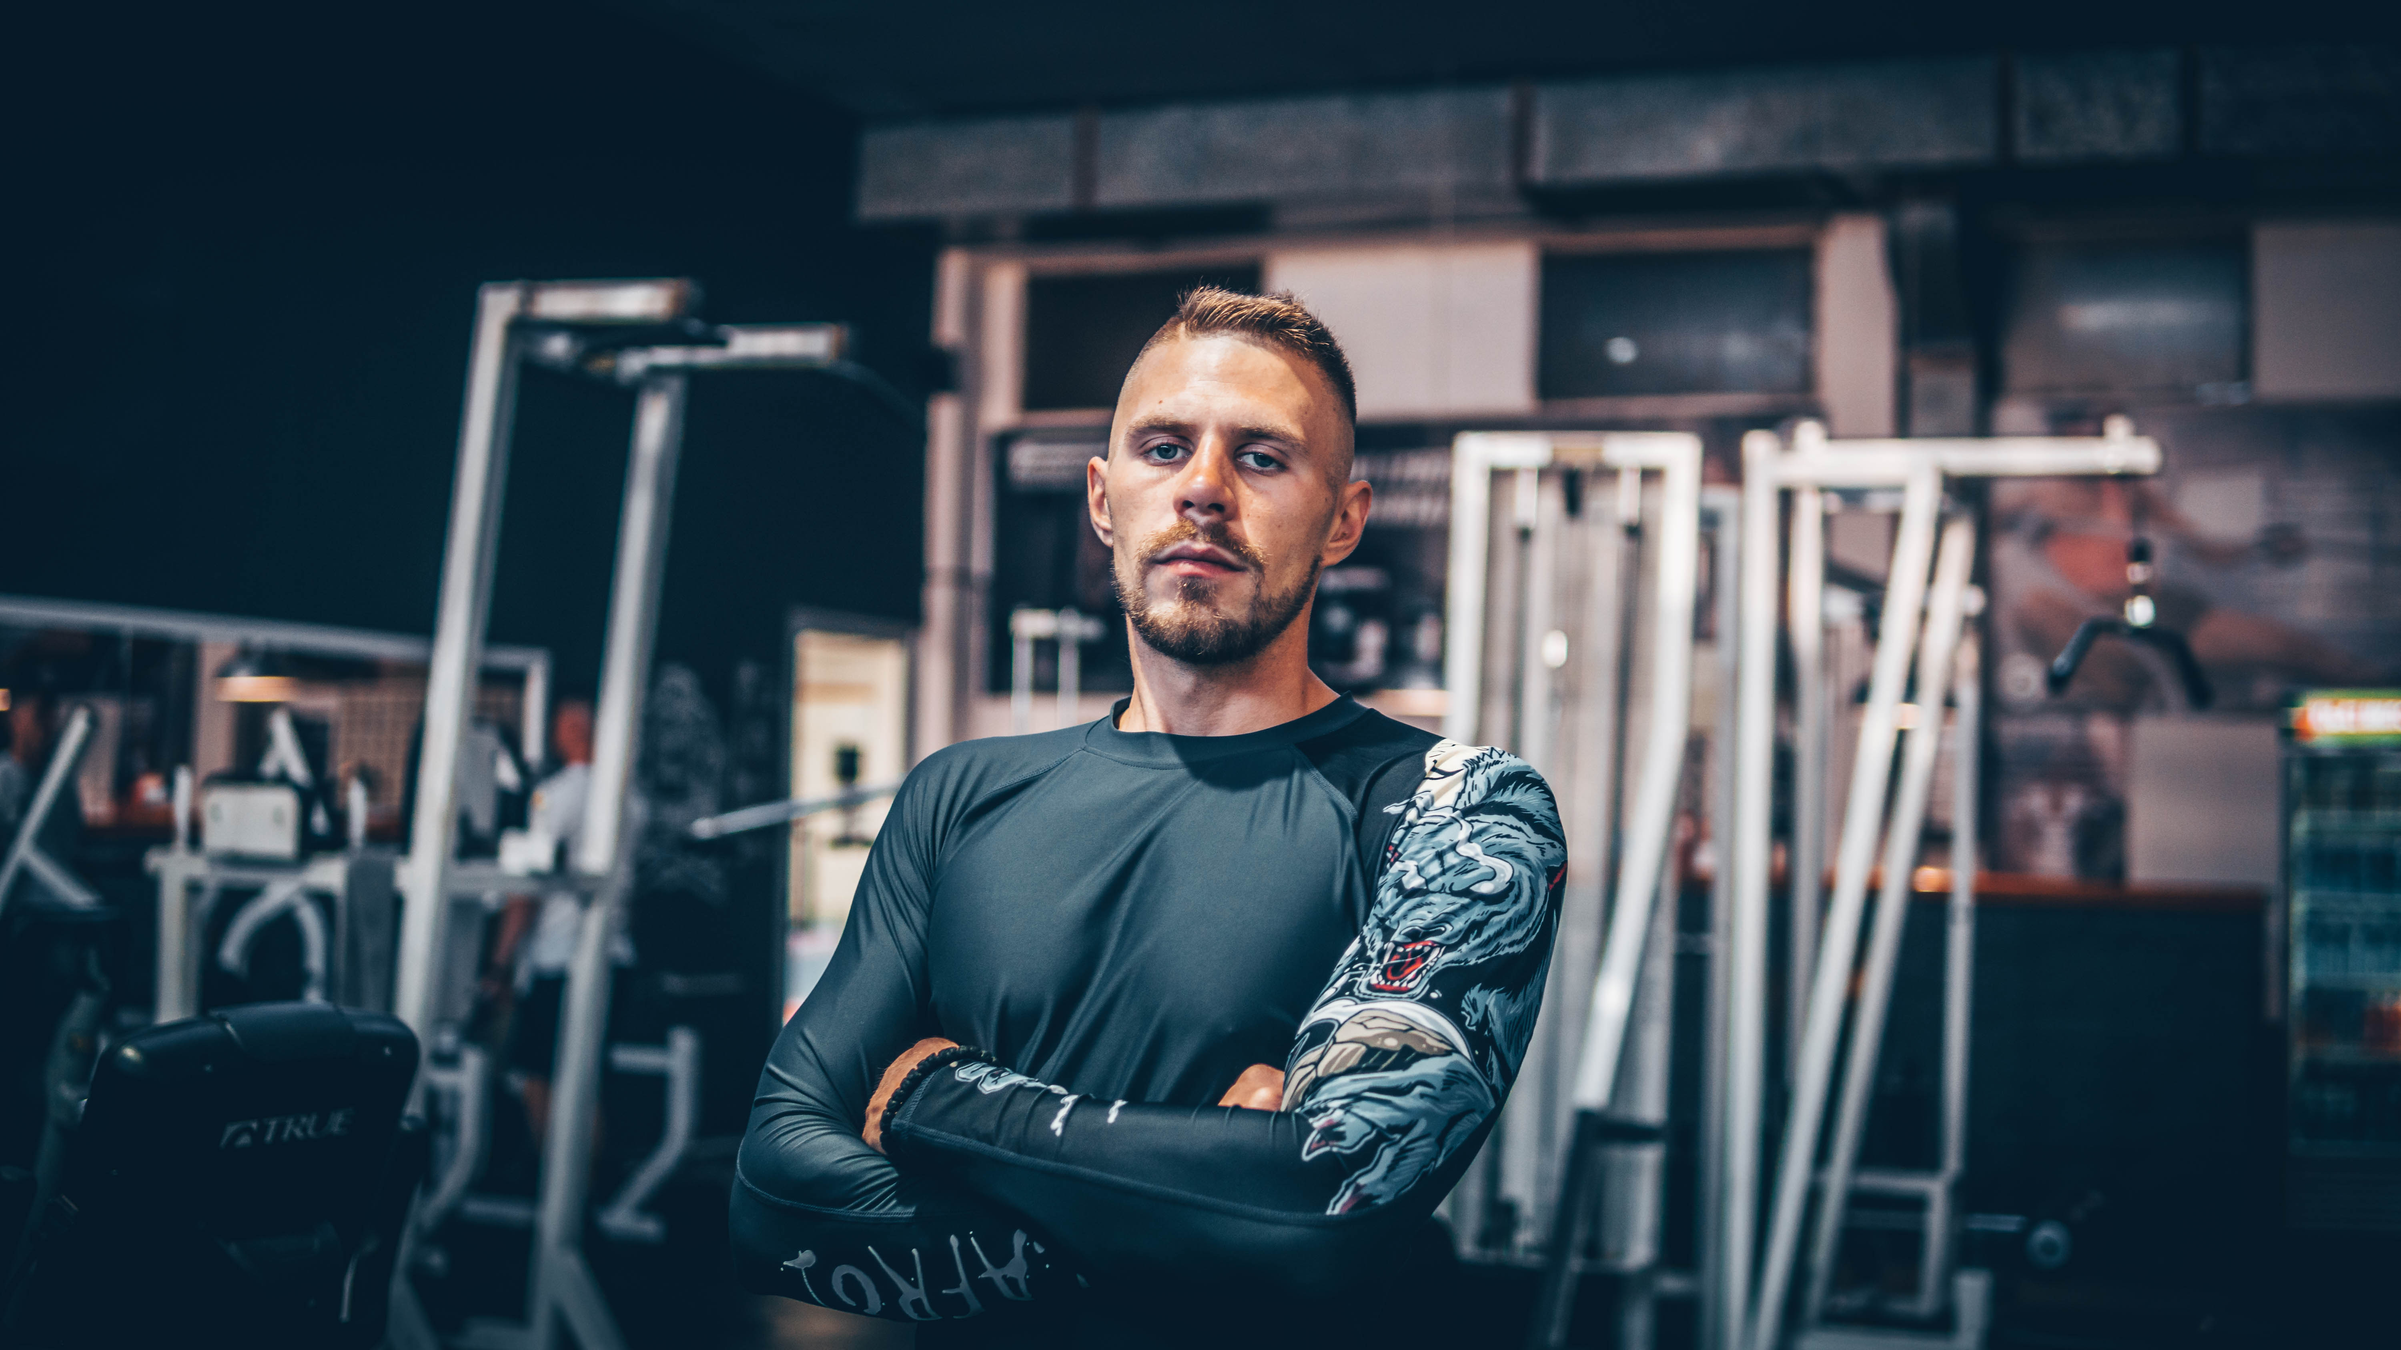
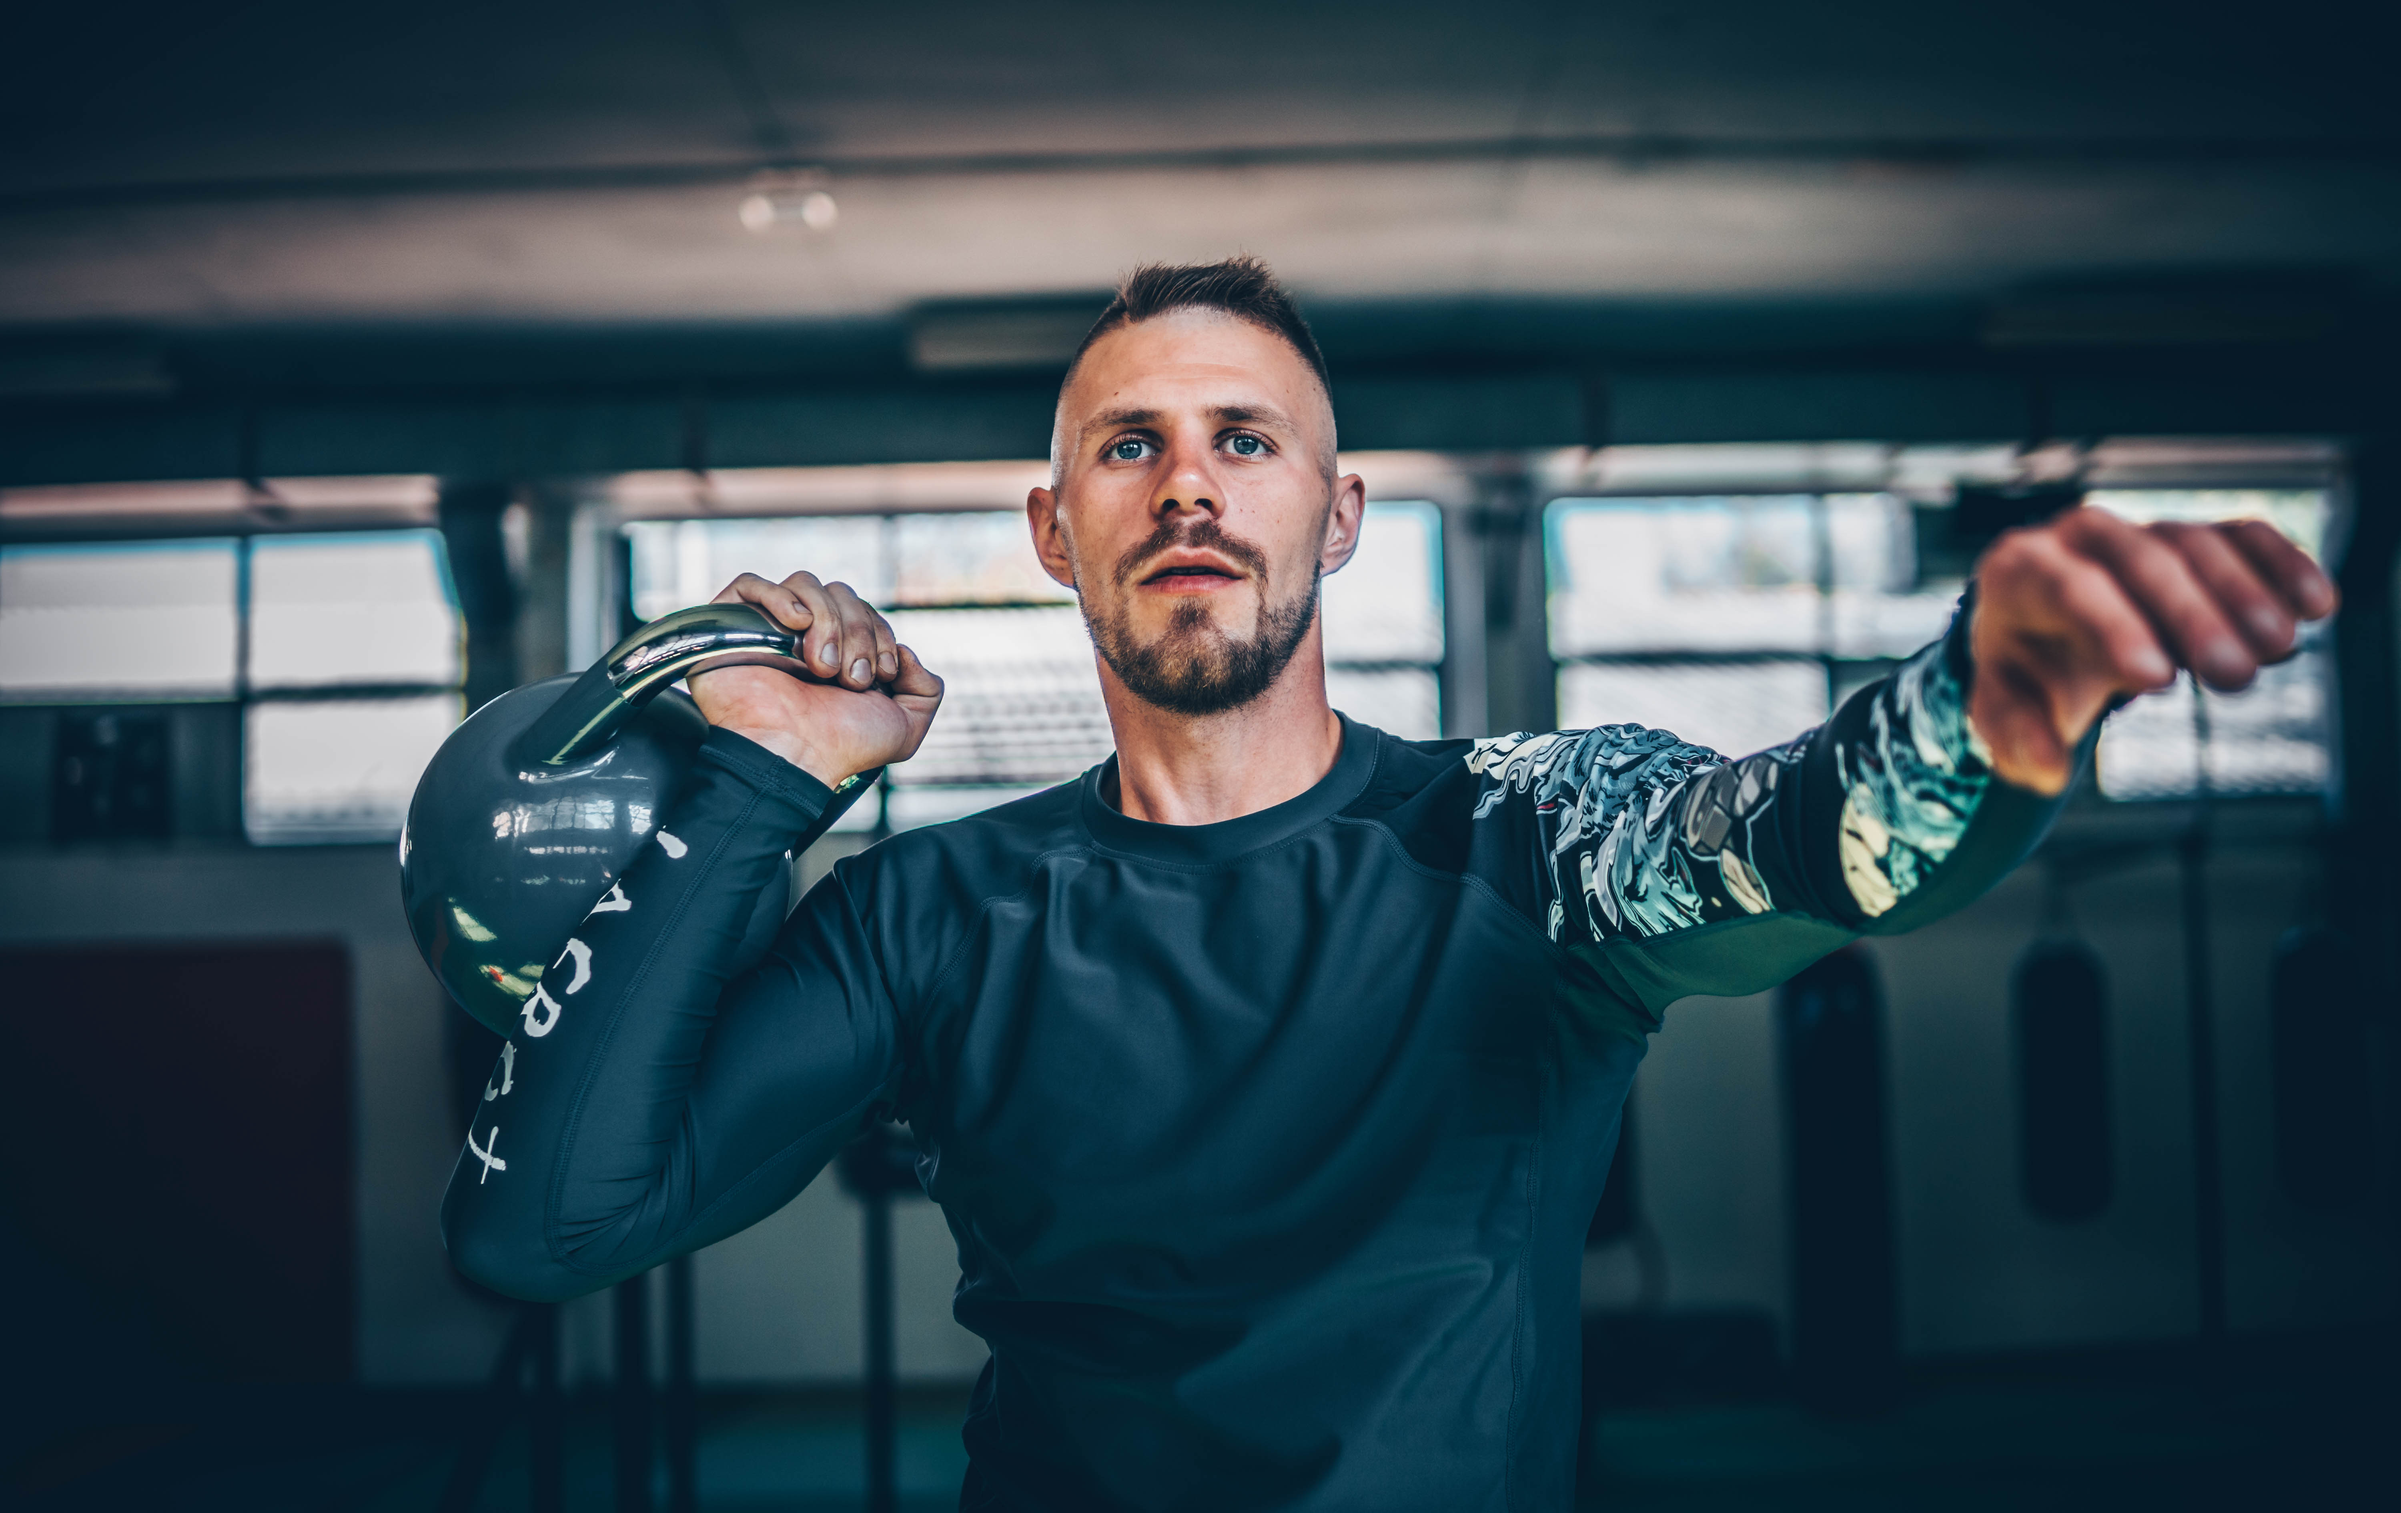
Add files via upload

diff --git a/programs.html b/programs.html
@@ -28,7 +28,7 @@
 
   <div class="container">
     <div class="programs-main-image">
-      <img src="img/workout.webp" alt="" />
+      <img src="img/programi-slika.jpg" alt="" />
     </div>
 
     <div class="programs-page">

diff --git a/programs.css b/programs.css
@@ -125,7 +125,7 @@ nav {
 }
 
 .programs-main-image img {
-  opacity: 0.5;
+  /* opacity: 0.5; */
   width: 100%;
   max-height: 100vh;
 }
